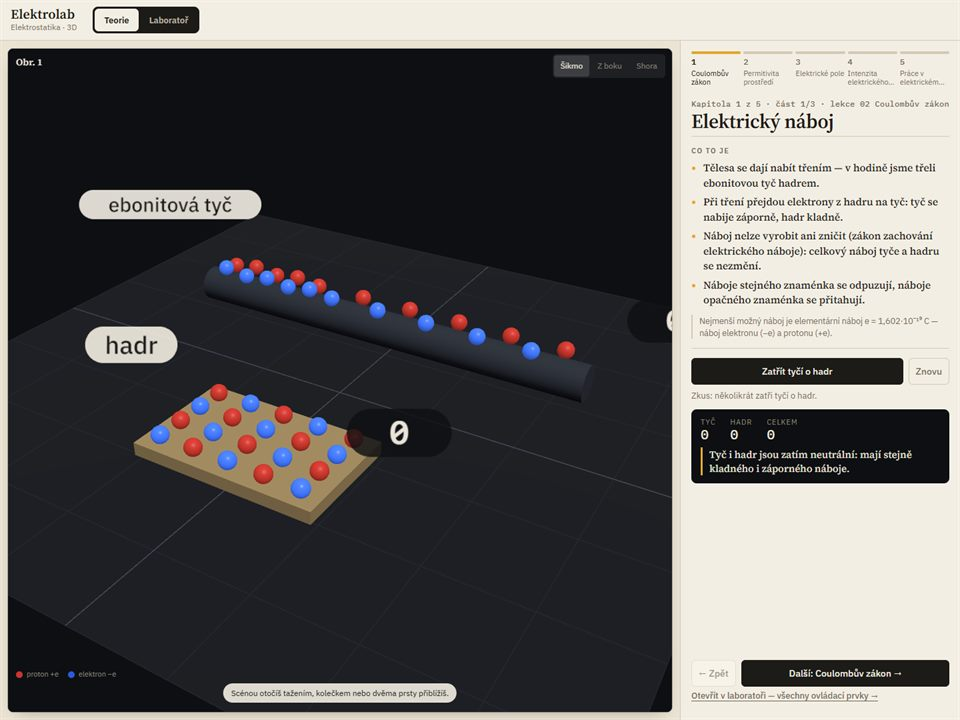
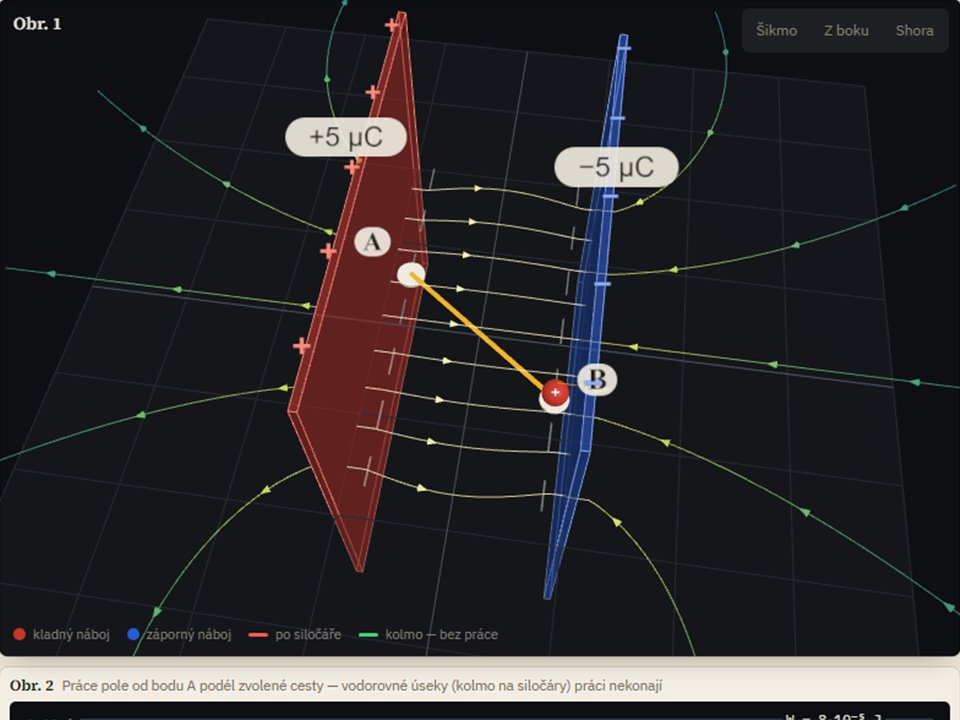
Elektrolab card: link to case study, new thumbnail and one-liner

diff --git a/index.html b/index.html
@@ -85,7 +85,7 @@
       </div>
       <div class="grid">
         <a class="card project" href="https://quandevcz.github.io/saunaasia/" target="_blank" rel="noopener"><img class="shot ph" src="assets/projects/saunaasia.jpg" alt="Sauna Asia website homepage" width="960" height="720" loading="lazy"><span class="row-title">Sauna Asia</span><span class="row-desc">A new website for my family's restaurant. Menu, sauna and contact.</span></a>
-        <a class="card project" href="https://quandevcz.github.io/elektrolab/" target="_blank" rel="noopener"><img class="shot ph" src="assets/projects/elektrolab.jpg" alt="Elektrolab 3D lesson on electric charge" width="960" height="720" loading="lazy"><span class="row-title">Elektrolab</span><span class="row-desc">3D electrostatics app for my physics class, in Czech.</span></a>
+        <a class="card project" href="https://quandevcz.github.io/elektrolab/case-study.html" target="_blank" rel="noopener"><img class="shot ph" src="assets/projects/elektrolab.jpg" alt="Elektrolab: field lines between two charged plates in 3D" width="960" height="720" loading="lazy"><span class="row-title">Elektrolab</span><span class="row-desc">3D electrostatics lab built to match my physics class. Every notebook example is a passing test.</span></a>
         <a class="card project" href="https://quandevcz.github.io/hand-gesture-instrument/" target="_blank" rel="noopener"><img class="shot ph" src="assets/projects/chord-hands.jpg" alt="Chord Hands start screen" width="800" height="600" loading="lazy"><span class="row-title">Chord Hands</span><span class="row-desc">Play chords with your hands through the webcam.</span></a>
         <a class="card project" href="https://quandevcz.github.io/night-racer/" target="_blank" rel="noopener"><img class="shot ph" src="assets/projects/night-racer.jpg" alt="Night Racer start screen over a neon city" width="960" height="720" loading="lazy"><span class="row-title">Night Racer</span><span class="row-desc">A 3D racing game through a night city, right in the browser.</span></a>
       </div>
